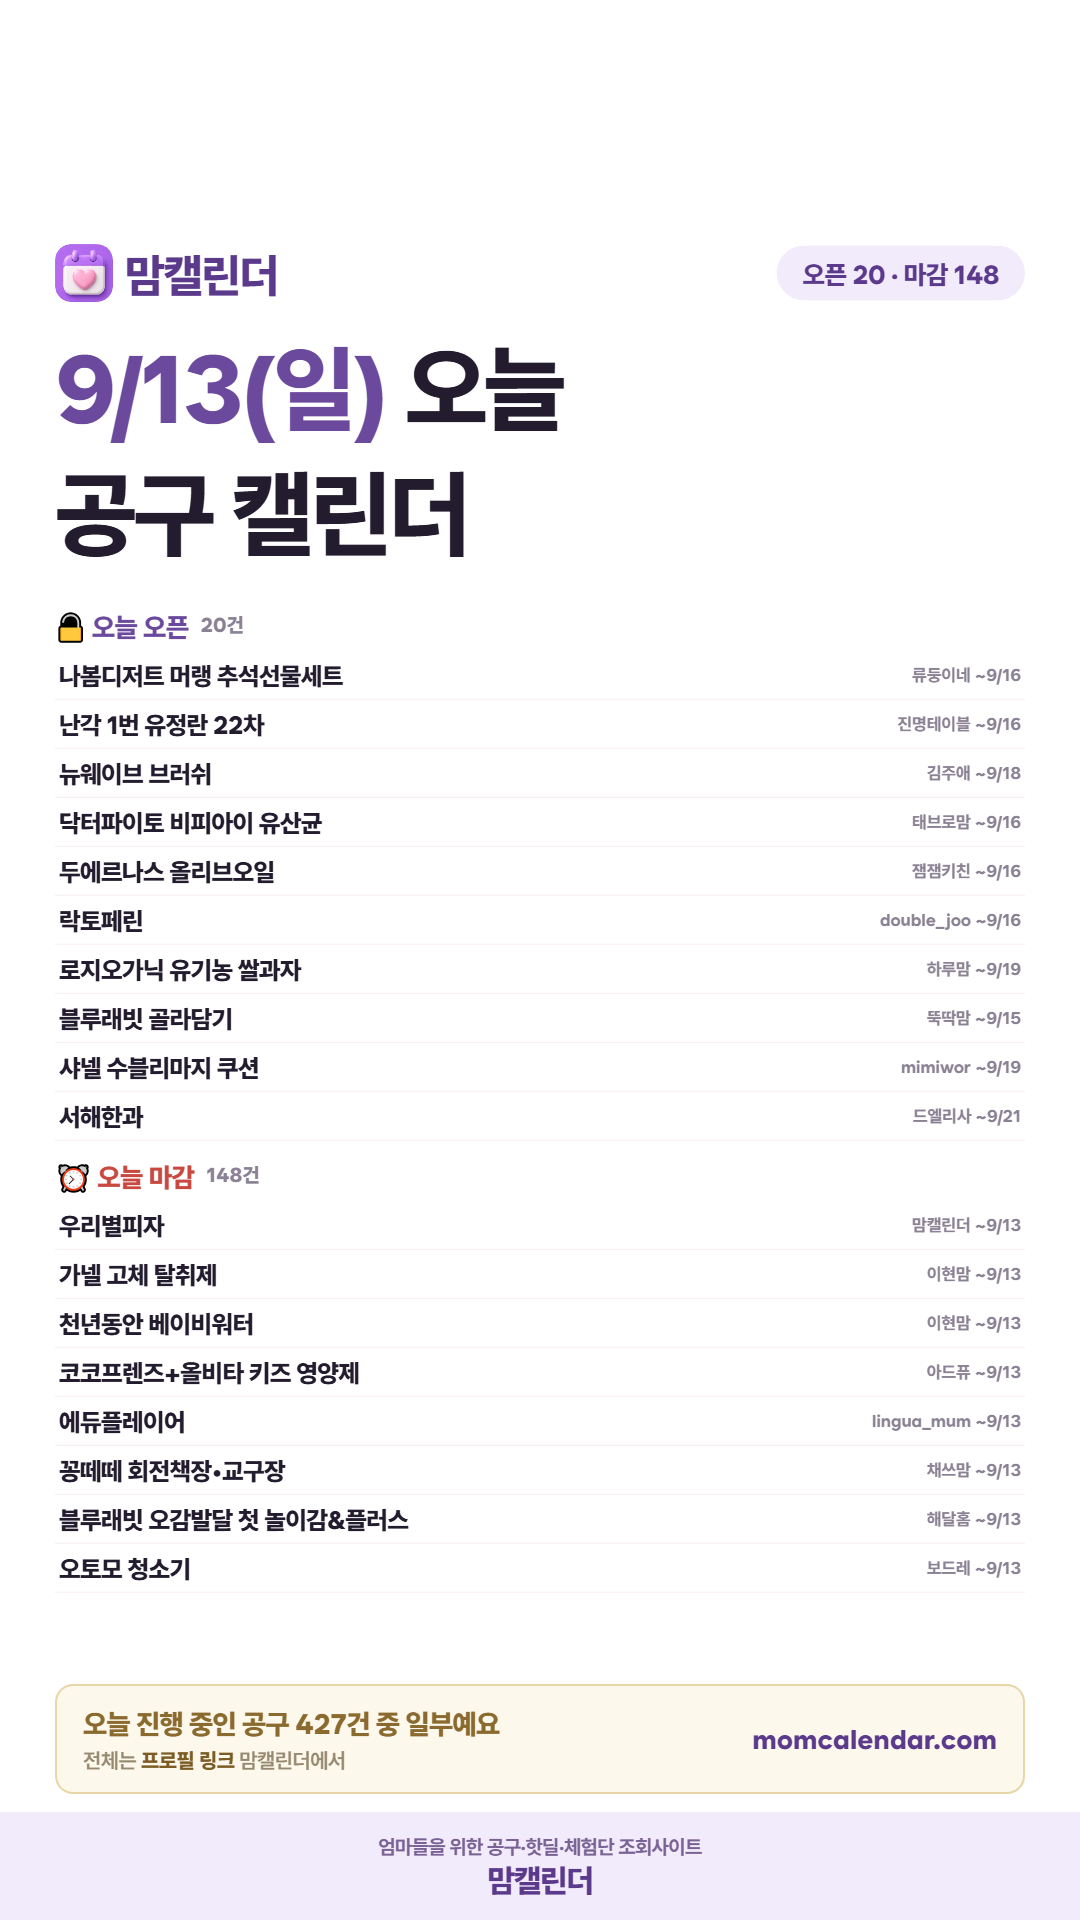
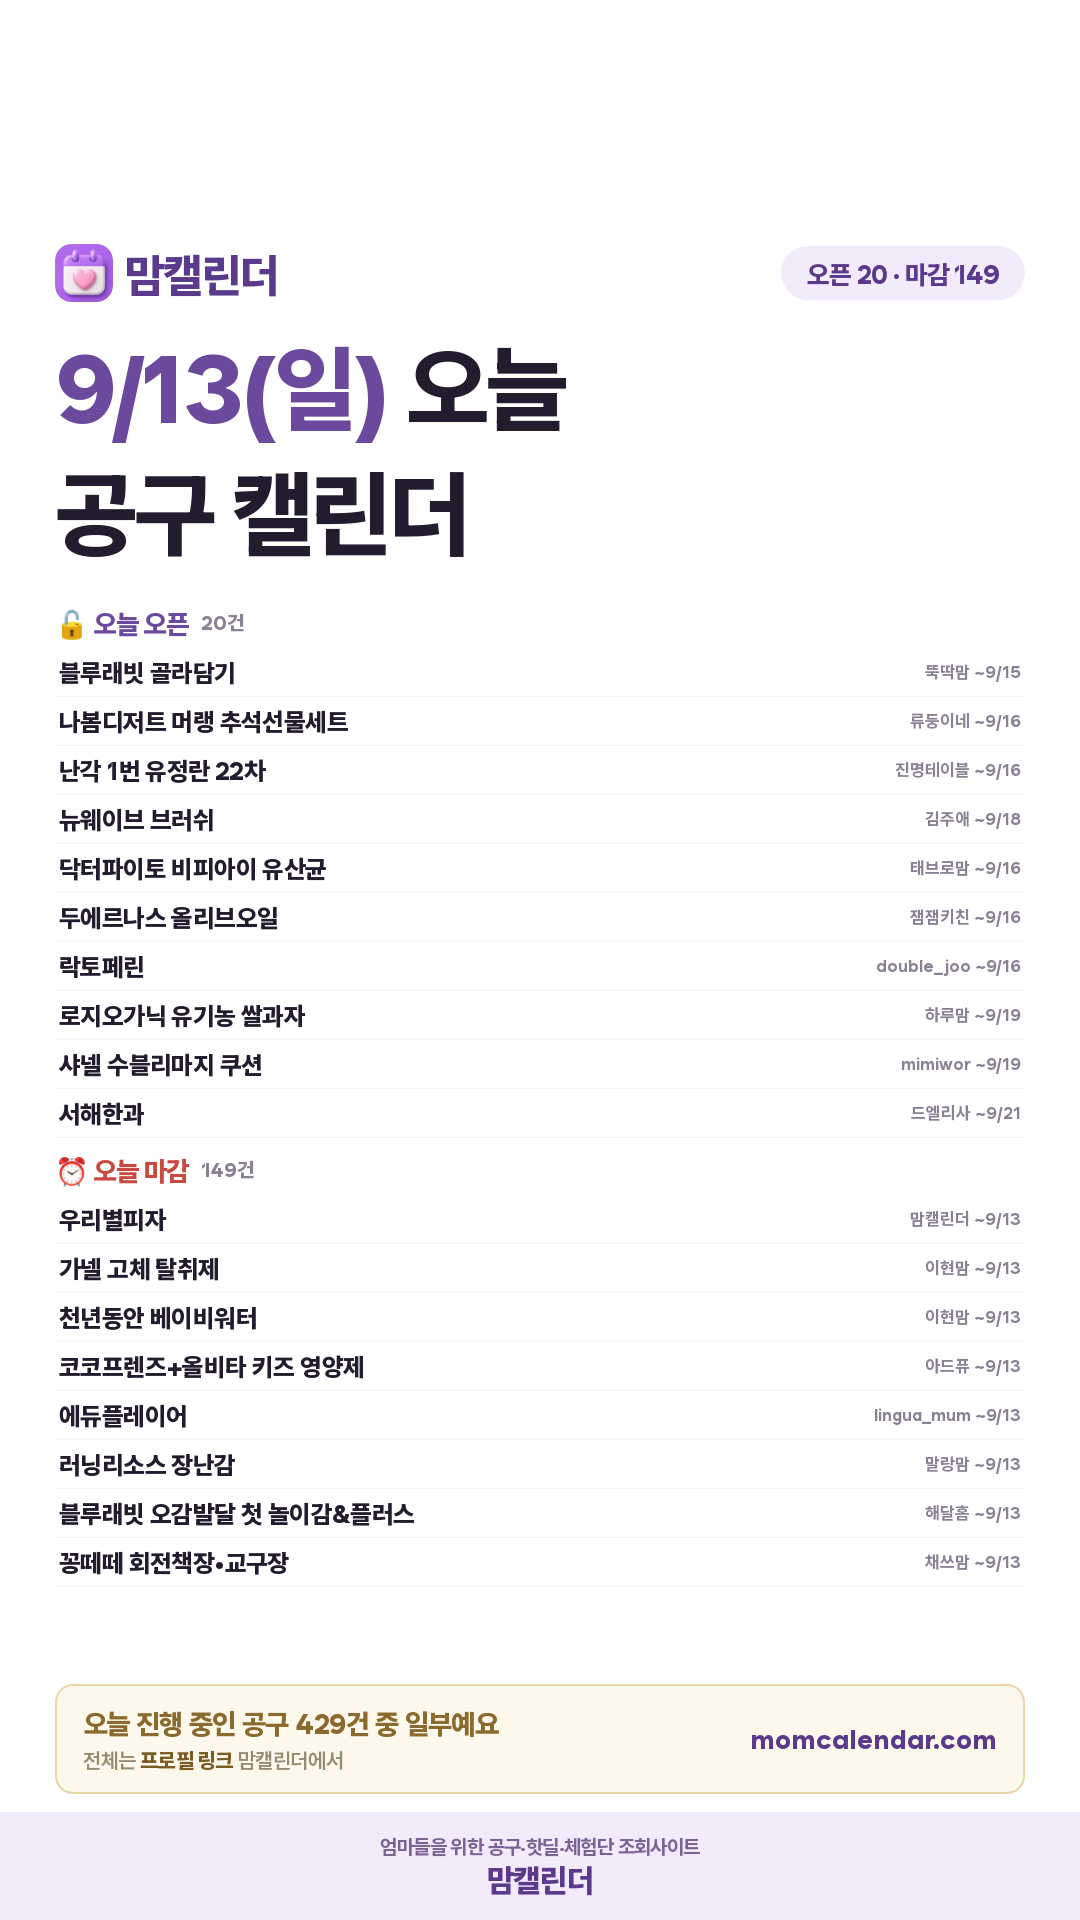
아침 인스타 카드 (2026-09-07)

diff --git a/daily/2026-09-13.html b/daily/2026-09-13.html
@@ -19,19 +19,20 @@ textarea{width:100%;height:260px;border:1px solid #E3DCEF;border-radius:10px;pad
 .todo p{font-size:12.5px;color:#6B6379;line-height:1.75;margin-top:6px}
 .todo a{color:#5B2E8C;font-weight:700}
 </style></head><body>
-<div class="hd"><div class="wrap"><h1>9월 13일(일) 인스타 카드</h1><p>리스트형 · opens 20 · ends 148</p></div></div>
+<div class="hd"><div class="wrap"><h1>9월 13일(일) 인스타 카드</h1><p>리스트형 · opens 20 · ends 149</p></div></div>
 <div class="wrap">
   
   <div class="card"><img src="./2026-09-13.png" alt="오늘 공구 카드"></div>
   <a class="btn" href="./2026-09-13.png" download="momcal_20260913.png">사진 저장</a>
   <div class="card">
-    <textarea id="cap" readonly>공구 찾아 헤매지 마세요, 오늘 오픈 전부 모았어요
+    <textarea id="cap" readonly>저장해두면 오늘 하루 공구 검색 끝이에요
 
-9월 13일(일) 오픈 20건 · 마감 148건
+9월 13일(일) 오픈 20건 · 마감 149건
 
 ━━━━━━━━━━━━━━
 
 🔓 오늘 오픈
+· 블루래빗 골라담기 — 뚝딱맘 (~9/15)
 · 나봄디저트 머랭 추석선물세트 — 류둥이네 (~9/16)
 · 난각 1번 유정란 22차 — 진명테이블 (~9/16)
 · 뉴웨이브 브러쉬 — 김주애 (~9/18)
@@ -39,7 +40,6 @@ textarea{width:100%;height:260px;border:1px solid #E3DCEF;border-radius:10px;pad
 · 두에르나스 올리브오일 — 잼잼키친 (~9/16)
 · 락토페린 — double_joo (~9/16)
 · 로지오가닉 유기농 쌀과자 — 하루맘 (~9/19)
-· 블루래빗 골라담기 — 뚝딱맘 (~9/15)
 · 샤넬 수블리마지 쿠션 — mimiwor (~9/19)
 · 서해한과 — 드엘리사 (~9/21)
 · 아넬라 과일퓨레 — 축복맘 (~9/15)
@@ -59,18 +59,19 @@ textarea{width:100%;height:260px;border:1px solid #E3DCEF;border-radius:10px;pad
 · 천년동안 베이비워터 — 이현맘 @ihyeon_mom_251125
 · 코코프렌즈+올비타 키즈 영양제 — 아드퓨 @atelier.de.purete
 · 에듀플레이어 — lingua_mum
-· 꽁떼떼 회전책장•교구장 — 채쓰맘
+· 러닝리소스 장난감 — 말랑맘
 · 블루래빗 오감발달 첫 놀이감&amp;플러스 — 해달홈
+· 꽁떼떼 회전책장•교구장 — 채쓰맘
+· 베투키 엘키즈 유산균 — 마미약사
 · 오토모 청소기 — 보드레
 · 이유아식 식기는 무조건 탁가온 2차 — 뚜뚜맘
 · 난각번호1번 유정란 (+구운란) — 집순키친
 · 뉴치트 단백질쉐이크 — 켜니
-· 러닝리소스 장난감 — 말랑맘
 · 리틀피기 가을신상 — 도현맘
 · 모두의 육수 (멸치,해물,사골,야채,황태 — lazykimjubu
+· 몽키버니 휴대용침대 — 희아패밀리
 · 미스티파이 오일스프레이 — 로라도라홈
 · 바른곱창 한우곱창·대창 기획전 — 김밀키
-· 베투키 엘키즈 유산균 — 마미약사
 · 아보카도오일·동그랑땡 — 더쭌맘
 · 앤데이지홈 올인원커버&amp;모달이불 — 헤이홈
 · 올유베베 가을신상 고쟁이&amp;모달긴팔T&amp;나시 — 콩알픽
@@ -104,14 +105,13 @@ textarea{width:100%;height:260px;border:1px solid #E3DCEF;border-radius:10px;pad
 · 디즈니 그림명작 — 서점맘
 · 또비앙또 미니 보냉파우치 — yulniverze
 · 레드진저 생강차 2차 — 길쭉이네
-· 레모니즈백 레몬즙 — 바이요미
-…외 97건
+…외 98건
 
 
 ━━━━━━━━━━━━━━
 
-👍 좋아요 · 📌 저장 · 💜 팔로우 해두시면
-매일 공구 일정을 가장 먼저 받아보실 수 있어요
+📌 저장해두면 필요할 때 바로 꺼내 볼 수 있어요
+💜 팔로우하면 내일 일정도 놓치지 않아요
 
 공구 찾을 땐 프로필 링크의 맘캘린더 사이트에서
 검색 한 번이면 끝나요
@@ -121,12 +121,12 @@ textarea{width:100%;height:260px;border:1px solid #E3DCEF;border-radius:10px;pad
 💬 궁금한 브랜드·공구는 댓글로 남겨주세요
 우선적으로 찾아서 맘캘린더에 올려드릴게요
 
-오늘도 함께해 주셔서 감사해요, 내일 또 만나요 💜
+내일도 보기 쉽게 정리해서 올게요 🤍
 
 ⚠ 공구 일정은 판매자 사정에 따라 변경·조기마감될 수 있어요.
 
-#맘캘린더 #공구일정 #육아공구 #9월13일공구 #교구 #놀잇감 #오늘의공구 #육아용품 #공구모음 #유모차 #육아템 #맘스타그램</textarea>
-    <div class="meta">2185자</div>
+#맘캘린더 #공구일정 #육아공구 #9월13일공구 #맘스타그램 #살림템 #아기간식 #유모차 #공구추천 #교구 #공구오픈 #육아용품</textarea>
+    <div class="meta">2170자</div>
     <button class="btn btn2" onclick="cp('cap','캡션')">캡션 복사</button>
   </div>
   <div class="card">
@@ -159,7 +159,7 @@ https://open.kakao.com/o/gr2kJhCh
 ─────────────
 
 9월 13일(일) 공구 오픈 소식이에요. 오늘 올라온 21건을 정리해 뒀어요.
-오늘 마감되는 공구도 198건 있으니 놓치지 마세요.
+오늘 마감되는 공구도 199건 있으니 놓치지 마세요.
 
 ■ 오늘 오픈하는 공구 21건
 
@@ -196,7 +196,7 @@ https://open.kakao.com/o/gr2kJhCh
 [가전]
 · 오드앵글 핸디다리미 — 다겨미네 (~9/16 마감)
 
-■ 오늘 끝나는 공구 198건
+■ 오늘 끝나는 공구 199건
 · Amoo 장난감정리함 — 유림
 · AMT 월드베스트팬 — 풍기댁홈
 · Dj&amp;A 모둠 대전 — __a.fit.__
@@ -284,7 +284,7 @@ https://open.kakao.com/o/gr2kJhCh
 · 봉이네농장 프리미엄 상주곶감 — luna____mom
 · 부드러운 사태고기 듬뿍, 기름기 적은 곰탕 — 다니맘
 · 브릭스 Reading &amp; Word — 이아록
-· 블루독 베이비 fw — dudungmom
+· 블루독 베이비 fw — 두둥맘
 · 블루래빗 오감발달 첫 놀이감&amp;플러스 — 해달홈
 · 블루필 초경량 헤어드라이기 — 서정
 · 빠방이 보드북 핫딜 — 메종드엘라
@@ -317,6 +317,7 @@ https://open.kakao.com/o/gr2kJhCh
 · 압토솔 선크림 — 원더아나
 · 앤데이지홈 올인원커버&amp;모달이불 — 헤이홈
 · 야물야물 그림책 3차 — 서누서나네
+· 어스메이드 아기턱받이 — hahaha__hayun
 · 에델코첸 — 태양우주맘
 · 에듀플레이어 — lingua_mum
 · 에르메스 추석 선물세트 — 도담맘
@@ -378,7 +379,7 @@ https://open.kakao.com/o/gr2kJhCh
 · 포포라보 삼퓨 — 매일부엌
 · 포포라보 삼퓨 — 리틀주니
 · 폰플로리 올리브오일 추석선물기획 — 밀커블
-· 풍심당 — dudungmom
+· 풍심당 — 두둥맘
 · 퓨어클 살균 침구청소기 — 축복맘
 · 프레미디 이동식티비 — 채집
 · 프레벨롱 퓨레 — 벨라하우스

diff --git a/daily/index.html b/daily/index.html
@@ -1,1 +1,1 @@
-<!DOCTYPE html><meta charset="UTF-8"><meta http-equiv="refresh" content="0;url=./2026-09-12.html">
+<!DOCTYPE html><meta charset="UTF-8"><meta http-equiv="refresh" content="0;url=./2026-09-13.html">
